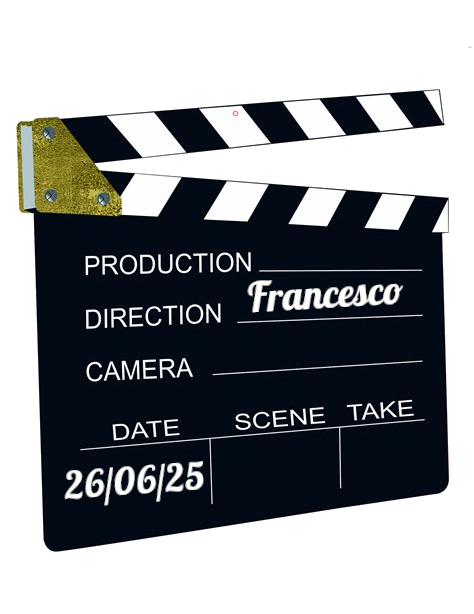
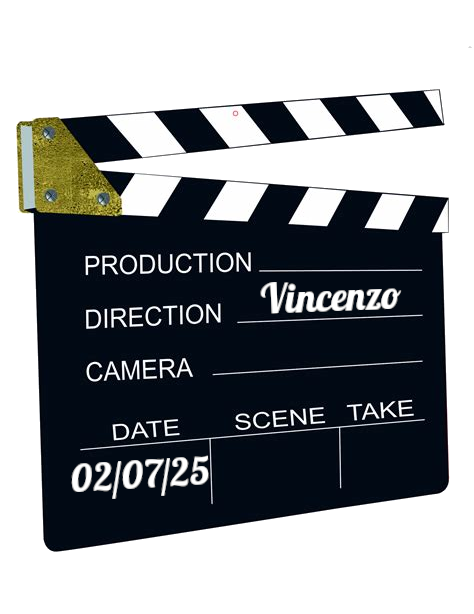
Diaz - Don't clean up this blood

Changed region(s): [[0.1181, 0.7427, 0.443, 0.8355], [0.5021, 0.4332, 0.8565, 0.5261]]

diff --git a/index.html b/index.html
@@ -38,12 +38,21 @@
 
 <br /><br /><hr width="90%"><hr width="90%"><br /><br />
 
-<h1>Gioved&igrave; 26 giugno 2025</h1>
+<h1>Mercoled&igrave; 2 luglio 2025</h1>
 <h2>Alle 20:30 in Via Nizza, 72</h2>
 <img src="img/ciak.png" class="locandina"/>
-<h2>Selezionatore: <i>Francesco</i></h2>
+<h2>Selezionatore: <i>Vincenzo</i></h2>
 
 <br /><br /><hr width="90%"><hr width="90%"><br /><br />
+
+<h1>Gioved&igrave; 26 giugno 2025</h1>
+<p class="mtitle">
+<a href="https://www.imdb.com/title/tt1934234" target="_blank">Diaz - Don't Clean Up This Blood</a>
+</p>
+<img src="https://image.tmdb.org/t/p/w500/bQO6eKsccYaGiZxSVkf0RU58viE.jpg" class="locandina"/>
+<h2>Selezionatore: <i>Francesco</i></h2>
+
+<br /><br /><hr width="90%"><br /><br />
 
 <h1>Mercoled&igrave; 18 giugno 2025</h1>
 <p class="mtitle">
@@ -53,7 +62,6 @@
 <h2>Selezionatrice: <i>Serena</i></h2>
 
 <br /><br /><hr width="90%"><br /><br />
-
 
 <h1>Mercoled&igrave; 11 giugno 2025</h1>
 <p class="mtitle">

diff --git a/movieslist.html b/movieslist.html
@@ -29,6 +29,17 @@ Rassegnamoci, Cineforum a Programma Variabile - Elenco Film
   </thead>
   <tbody>
     <tr>
+      <td>26-Giu-2025</td>
+      <td>Diaz - Don't Clean Up This Blood</td>
+      <td>Francesco</td>
+      <td>-</td>
+      <td>2012</td>
+      <td>Daniele Vicari</td>
+      <td>120</td>
+      <td>FR; IT; RO</td>
+      <td><a href="https://www.imdb.com/title/tt1934234" target="_blank">https://www.imdb.com/title/tt1934234</a></td>
+    </tr>
+    <tr>
       <td>18-Giu-2025</td>
       <td>Frances Ha</td>
       <td>Serena</td>
